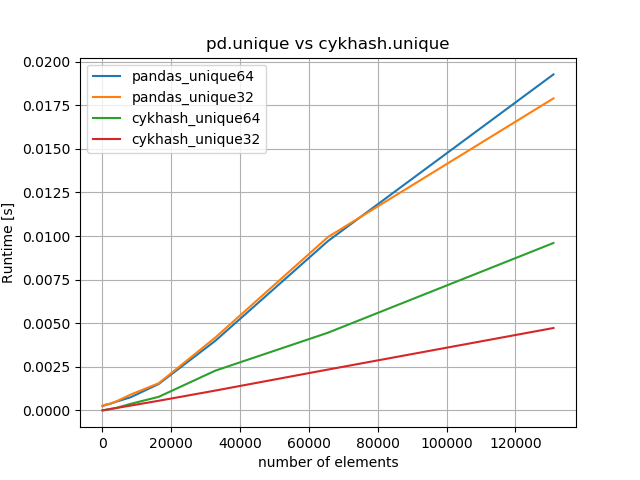
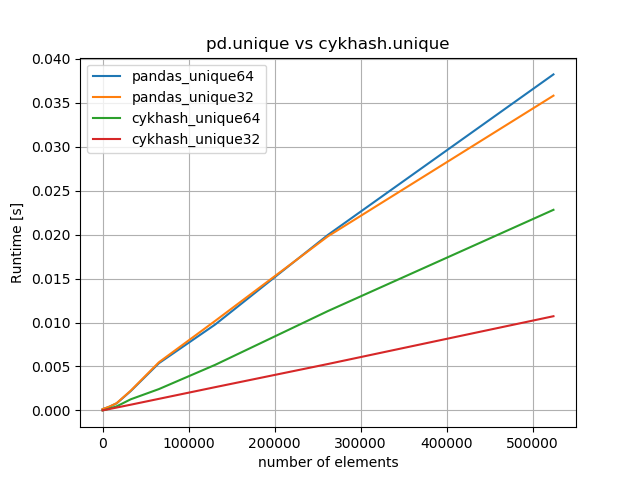
tests+readme for unique

diff --git a/tests/perf_tests/memory_unique_test.py b/tests/perf_tests/memory_unique_test.py
@@ -1,0 +1,33 @@
+import numpy as np
+import pandas as pd
+import sys
+
+import resource
+import psutil
+
+from cykhash import unique_int64, unique_int32
+
+fun_name = sys.argv[1]
+N=int(sys.argv[2])
+
+a=np.arange(N, dtype=np.int64)
+
+
+process = psutil.Process()
+old = process.memory_info().rss
+old_max = resource.getrusage(resource.RUSAGE_SELF).ru_maxrss * 1024
+
+if fun_name == "pandas":
+    b=pd.unique(a)
+else: 
+    b=np.frombuffer(memoryview(unique_int64(a)))
+
+new_max = resource.getrusage(resource.RUSAGE_SELF).ru_maxrss * 1024
+
+if new_max>old_max:
+    overhead_in_bytes = new_max - old
+    print(len(b),  overhead_in_bytes/float(N*8) )
+else:
+    print(len(b),   "too small")
+
+

diff --git a/tests/perf_tests/khashunique_vs_pdunique.py b/tests/perf_tests/khashunique_vs_pdunique.py
@@ -21,7 +21,7 @@ def cykhash_unique32(bufs):
 if True:  
     perfplot.show(
         setup = lambda n : (np.arange(n, dtype=np.int64), np.arange(n, dtype=np.int32)),
-        n_range=[2**k for k in range(5,18)],
+        n_range=[2**k for k in range(5,20)],
         kernels=[
             pandas_unique64,
             pandas_unique32,

diff --git a/README.md b/README.md
@@ -64,38 +64,34 @@ i.e. there is about 4 time less memory needed.
 
 #### pd.unique()
 
-The implementation of pandas' `unique` uses a hash-table instead of hash-set, which results in a 25% larger memory footprint. Using cykhash's set similar to this example
+Warning: cykhash's version of `unique` doesn't not return uniques in order of appearance (which pandas' version does!). `cykhash.unique` returns a object with buffer-interface, which can be used for creation of numpy-arrays via `np.frombuffer`.
+
+The implementation of pandas' `unique` uses a hash-table instead of hash-set, which results in a larger memory footprint. `cykhash.unique_int64` (or `unique_int32`, `unique_float32`, `unique_float64`) uses much less memory and is also faster. See also question https://stackoverflow.com/questions/51485816/curious-memory-consumption-of-pandas-unique for more details.
 
 
-    cimport numpy as np
-    import numpy as np
+![1](imgs/unique_time_comparison.png)
 
-    from cykhash.khashsets cimport Int64Set, Int64SetIterator
+There is no int32-version in `pandas`, such there is no difference to 64bit. `int32`-version of `cykhash` is twice as fast as `int64`-version, which is about factor 1.66 faster than the pandas' version. Run `tests/perf_tests/khashunique_vs_pdunique.py` to generate the plot.
 
-    def unique_int64(np.int64_t[::1] data):
-        cdef np.ndarray[dtype=np.int64_t] res
-        cdef Int64Set s=Int64Set(len(data))
-        cdef Int64SetIterator it
-        cdef Py_ssize_t i
-        cdef int cnt=0
-        for i in range(len(data)):
-            s.add(data[i])
-        res=np.empty(s.table.size, dtype=np.int64)
-        it = s.get_iter()
-        for i in range(s.table.size):
-            res[cnt]=it.next()
-            cnt+=1
-        return res
-
-we can achieve better results, here an example of memory footprint:
+Peak memory overhead (additional needed memory given as `maximal_overhead_factor`) for unique (run `tests/perf_tests/run_memory_unique_test.sh` to generate the numbers). i.e. additional memory needed is `N*maximal_overhead_factor`
 
 
-    N      pd.unique()   cykhash's unique
-    1e8      529 MB          364 MB
-    2e8      790 MB          616 MB
-    4e8     1950 MB         1200 MB
-    6e8     3690 MB         2050 MB
-    8e8     3000 MB         2300 MB
+    N      pd.unique()   cykhash.unique_int64
+    1e6        6.24          2.18
+    2e6        6.19          2.15
+    4e6        6.35          2.16
+    6e6        4.86          1.44
+    8e6        6.25          2.16
+    9e6        7.50          1.90
+
+While `pd.unique` needs up to 8 times the original memory, `cykhash` at most 3 times the original memory. For the special case of `int32` the overhead-factor of `pd.unique` more than doubles because it doesn't have a dedicated int32-version and data must be converted to int64. 
+
+More precise the worst case scenario (while still without triggering rehashing) for `cykhash.unique_int64`, the overhead-factor can be `1.3*2*(1+1/64)=2.64` where:
+  
+ * 1.3 due to the fact that rehashing happens when more than 77% of buckets are occupied.
+ * 2 due to the fact, that khash doubles the size every time
+ * 1+1/64 that one bit is used for flags
+
 
 
 #### isin
@@ -170,6 +166,12 @@ Also here the performance of the 64bit/32bit variant much better:
 
 
 ## Usage:
+
+### Unique
+
+  * `unique_int64`, `unique_int32`, `unique_float64`, `unique_float32`
+  * returns an object which implements the buffer protocol, so `np.frombuffer` can be used to create numpy arrays.
+  * differently as pandas, the returned uniques aren't in the order of the appearance.
 
 ### Sets
 
@@ -309,5 +311,5 @@ To install and running tests in currently active environment:
 
   * 0.1.0: Int64Set
   * 0.2.0: Int32Set, Float64Set, Float32Set
-  * 0.3.0: PyObjectSet
+  * 0.3.0: PyObjectSet, Maps for Int64/32 and also Float64/32, unique-versions
 
